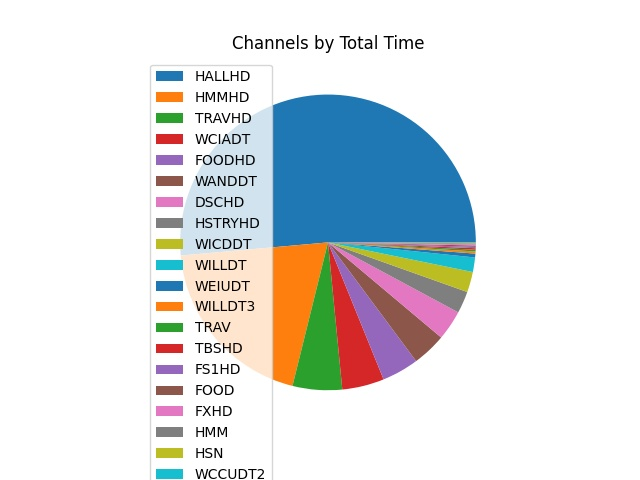
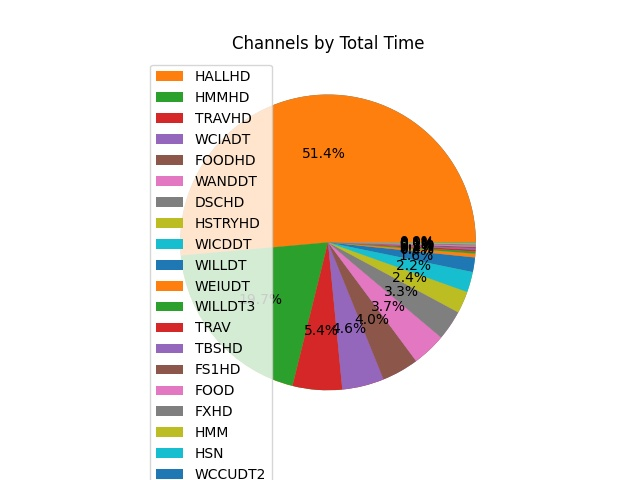
Implement percentages in Pie chart

Changed region(s): [[0.2188, 0.125, 0.75, 1.0]]

diff --git a/dvrmediaanalysis.py b/dvrmediaanalysis.py
@@ -166,8 +166,9 @@ class MyWindow(QtWidgets.QMainWindow, Ui_MainWindow):
         size = self.get_graph_data(new_dataframe, keys)
         #Print Pie chart, pie(size, lables)
         plt.title(self.single_graph_labels_dict["Title"])
+        plt.pie(size, autopct='%1.1f%%')
         patches, texts = plt.pie(size)
-        plt.legend(patches, keys, loc="best")
+        plt.legend(patches, keys)
         #Save graph
         self.save_graph(self.single_graph_labels_dict["Title"])
         plt.show()
